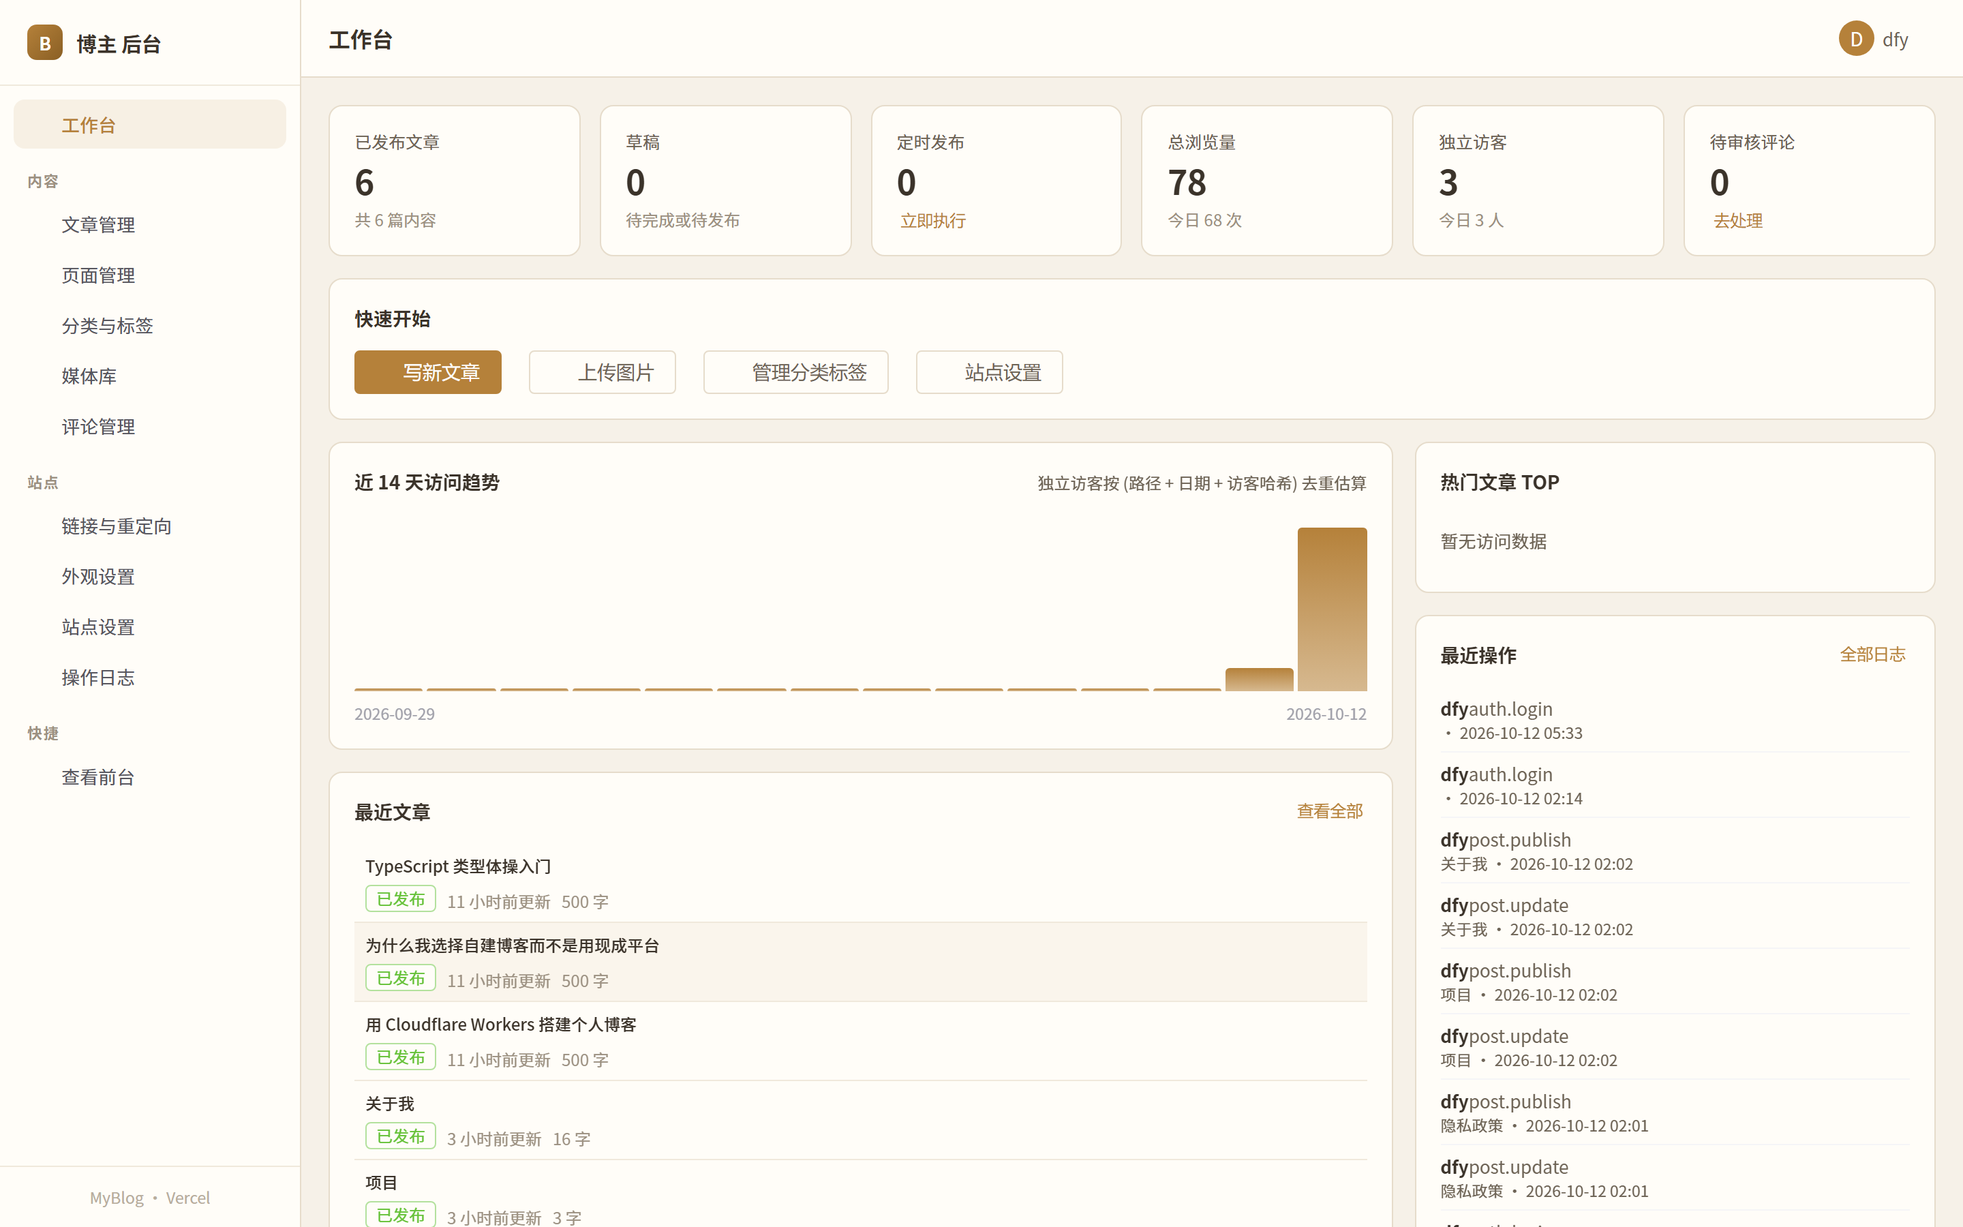
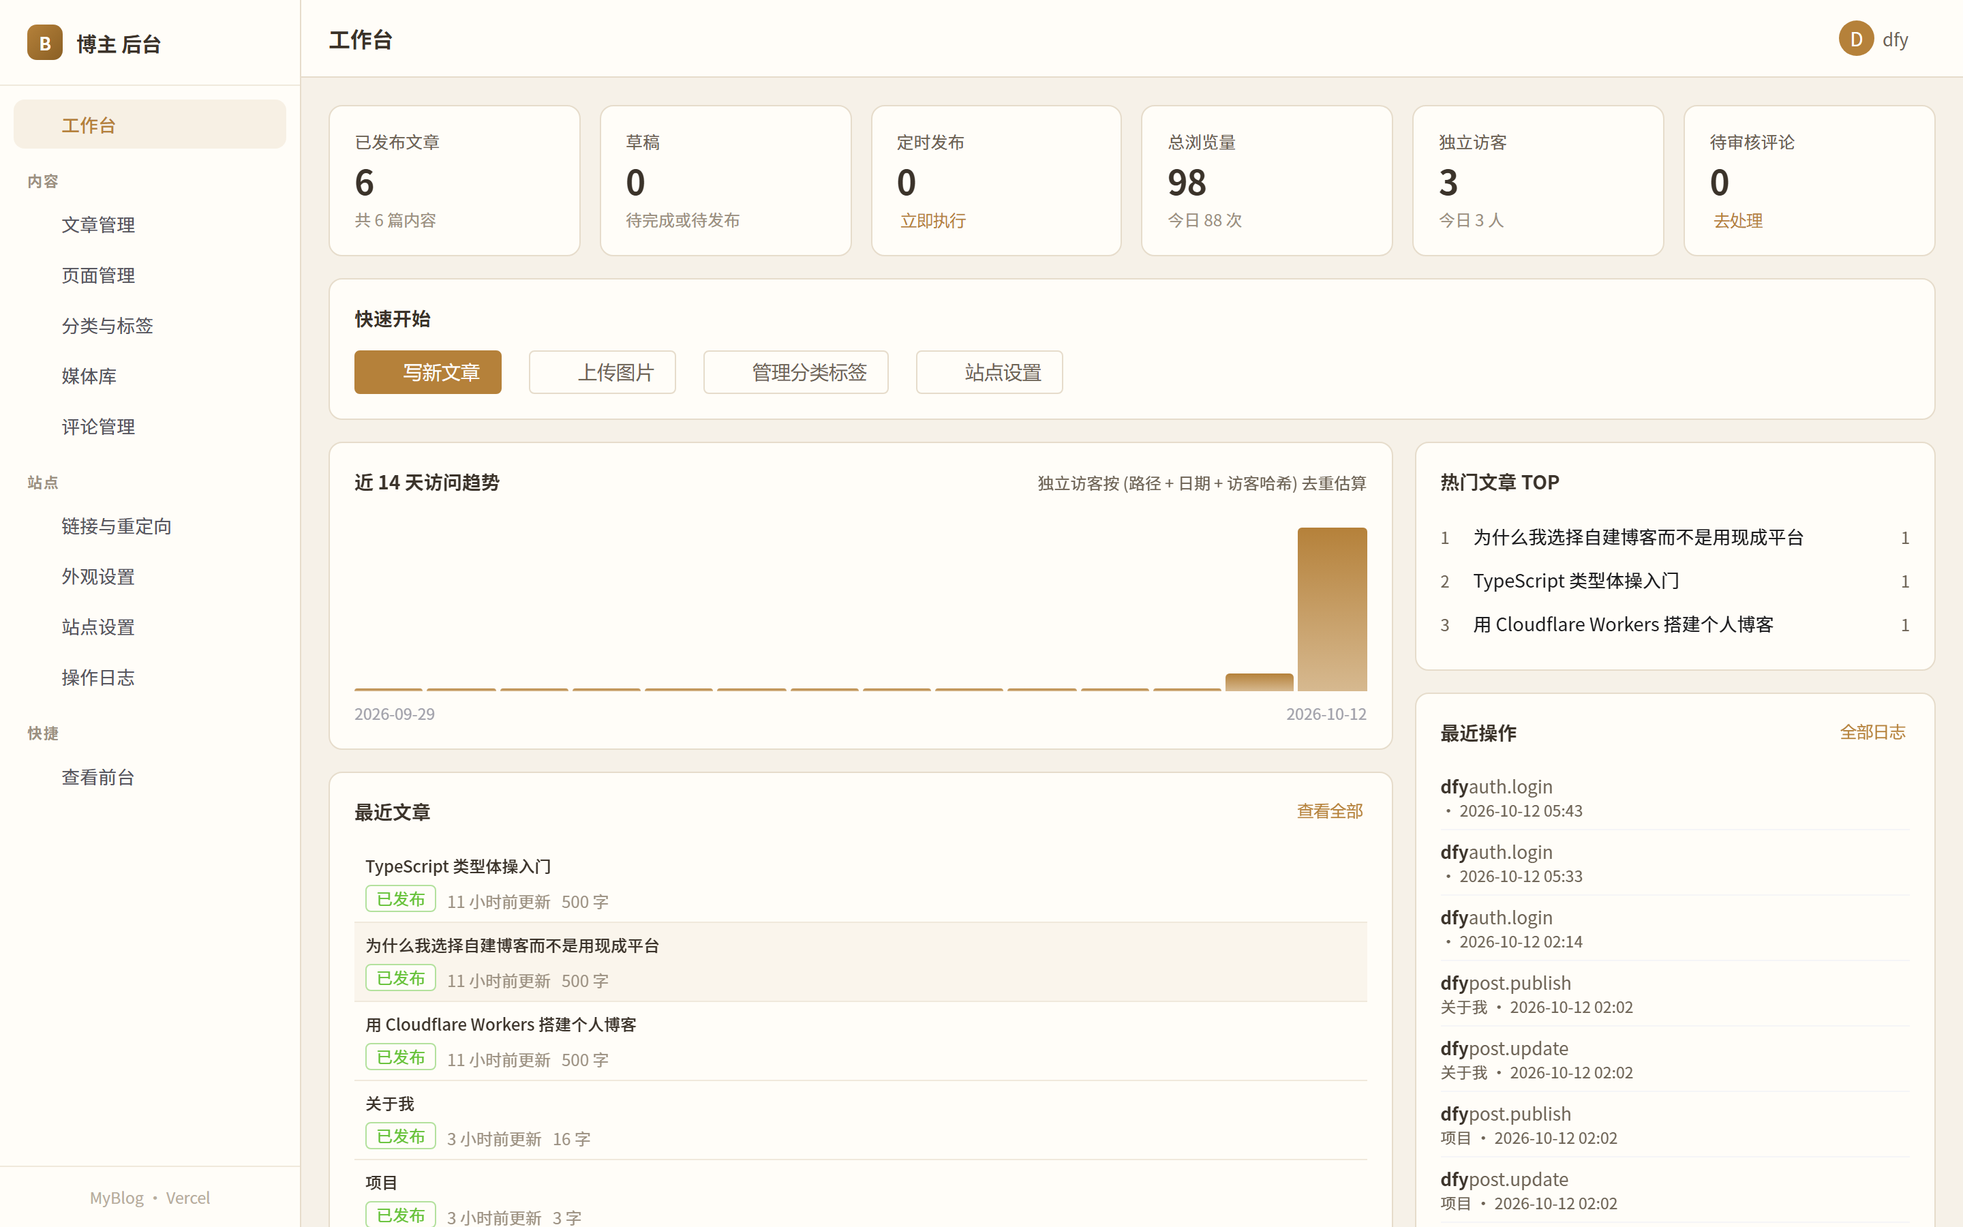
docs(readme): 更新为线上真实截图，补充一键部署与手动部署完整步骤

diff --git a/README.md b/README.md
@@ -4,31 +4,31 @@
 
 无需购买服务器，不依赖 Nginx / PHP / MySQL，推送 GitHub 即自动部署。
 
-> 部署到 Vercel 后，访问 `https://<你的项目名>.vercel.app` 即可。
+[![Deploy with Vercel](https://vercel.com/button)](https://vercel.com/new/clone?repository-url=https://github.com/yuanshang000/ysblog)
 
 ---
 
 ## 页面预览
 
-以下截图均截自真实运行实例（非设计稿），前台来自本地 `wrangler dev` + 演示数据。
+以下截图全部截自**线上真实运行实例**（`https://ysblog-pi.vercel.app`），非设计稿、非本地模拟。
 
-### 前台首页
+### 前台首页（日间主题）
 
-个人简介、精选文章、最新文章、分类导航一屏呈现。导航点击为页面内路由跳转，无整页刷新。
+个人简介、精选文章、最新文章一屏呈现。导航为页面内路由跳转，无整页刷新。
 
 ![首页](docs/images/home.png)
 
 ### 文章详情
 
-服务端渲染的完整正文，支持表格、代码高亮、引用、目录锚点，右侧目录随滚动高亮。
+服务端渲染的完整正文，支持表格、代码高亮、引用、右侧目录随滚动高亮。
 
 ![文章详情](docs/images/post-detail.png)
 
-### 深色模式
+### 夜间主题（淡灰）
 
-独立配色而非简单反色，`<head>` 内联脚本确定主题，切换时无闪烁。
+独立配色而非简单反色，`<head>` 内联脚本确定主题，切换时无闪烁。日间为淡棕黄、夜间为淡灰，两套均为浅底深字，正文对比度均达 WCAG AAA 级。
 
-![深色模式](docs/images/post-detail-dark.png)
+![夜间主题](docs/images/post-detail-gray.png)
 
 ### 文章列表与归档
 
@@ -44,9 +44,11 @@
 | --- | --- |
 | ![分类](docs/images/categories.png) | ![标签](docs/images/tags.png) |
 
-### 友情链接
+### 关于、友链与搜索
 
-![友情链接](docs/images/links.png)
+| 关于我 | 友情链接 | 搜索 |
+| --- | --- | --- |
+| ![关于](docs/images/about.png) | ![友链](docs/images/links.png) | ![搜索](docs/images/search.png) |
 
 ### 移动端适配
 
@@ -54,17 +56,23 @@
 
 ![移动端](docs/images/home-mobile.png)
 
-### 管理后台
+### 管理后台登录
 
-| 工作台 | 文章管理 |
-| --- | --- |
-| ![工作台](docs/images/admin-dashboard.png) | ![文章管理](docs/images/admin-posts.png) |
+![后台登录](docs/images/admin-login.png)
 
-工作台展示访问趋势、热门文章与最近操作日志。
+### 工作台
+
+访问趋势、热门文章与最近操作日志一览。
+
+![工作台](docs/images/admin-dashboard.png)
+
+### 文章管理
+
+![文章管理](docs/images/admin-posts.png)
 
 ### Markdown 编辑器
 
-三栏布局：左侧大纲、中间编辑、右侧属性（发布状态、URL别名、分类标签、SEO）。支持 1.5 秒防抖自动保存与实时预览。
+三栏布局：左侧大纲、中间编辑、右侧属性（发布状态、URL 别名、分类标签、SEO）。支持 1.5 秒防抖自动保存与实时预览。
 
 ![编辑器](docs/images/admin-editor.png)
 
@@ -86,17 +94,16 @@
 
 | 能力 | 说明 |
 | --- | --- |
-| 前台 SSR | 文章内容由 Worker 服务端渲染成 HTML，搜索引擎与禁用 JS 的场景都能完整阅读 |
-| 页面内路由 | 站内导航拦截后仅替换主体内容，同步标题与地址栏，支持前进后退；失败自动回退整页跳转，禁用 JS 时行为不变 |
+| 前台 SSR | 文章内容由服务端渲染成 HTML，搜索引擎与禁用 JS 的场景都能完整阅读 |
+| 页面内路由 | 站内导航拦截后仅替换主体内容，同步标题与地址栏，支持前进后退；失败自动回退整页跳转 |
+| 双主题 | 日间淡棕黄、夜间淡灰，另可跟随系统；`<head>` 内联脚本决定主题，切换无闪烁 |
 | 极简写作 | 三栏编辑器、1.5 秒防抖自动保存、本地草稿兜底、多标签页冲突检测 |
 | Markdown | 安全渲染（原始 HTML 一律转义），支持代码高亮、表格、数学公式、目录锚点、图片灯箱 |
-| 深色模式 | 浅色 / 深色 / 跟随系统，无闪烁；深色为独立配色而非反色 |
-| 图片管理 | 上传至 R2，自动嗅探真实类型、提取宽高、秒传去重、引用检查后删除 |
+| 图片管理 | 上传至 Blob，自动嗅探真实类型、提取宽高、去重、引用检查后删除 |
 | SEO | 每篇独立 title/description/canonical/robots，自动生成 Sitemap、RSS、结构化数据 |
-| 定时发布 | Cron 每 10 分钟检查，到点自动发布并写入操作日志 |
+| 定时发布 | Vercel Cron 每日检查，到点自动发布并写入操作日志 |
 | 访问统计 | 只存 IP 加盐哈希；独立访客按（访客 + 日期）去重，机器人流量自动排除 |
 | 安全 | PBKDF2 密码哈希、会话仅存哈希、HttpOnly+SameSite Cookie、双提交 CSRF、参数化 SQL、上传白名单 |
-| 数据备份 | 一条命令导出 D1 + 同步 R2，恢复流程经过实际验证 |
 
 ---
 
@@ -117,64 +124,106 @@ API       Vercel Functions（Node.js 运行时）+ TypeScript
 
 ## 部署
 
-### 方式一：Vercel 控制台导入（推送即部署）
+### 方式一：一键部署（推荐）
 
-**第 1 步：导入仓库**
+点击顶部按钮，或访问：
+
+```
+https://vercel.com/new/clone?repository-url=https://github.com/yuanshang000/ysblog
+```
+
+导入后 Vercel 会自动识别并完成首次构建。**但数据库和存储需要你手动创建**，因为它们无法由平台自动分配——请继续往下走「方式二」的第 2、3 步完成配置，再重新部署一次。
+
+---
+
+### 方式二：控制台导入（完整步骤）
+
+#### 第 1 步：导入仓库
 
 登录 [vercel.com](https://vercel.com) → **Add New → Project** → **Import** 选择本仓库，Framework Preset 选 **Other**。
 
-**第 2 步：创建数据库与存储**
+项目设置保持默认即可，仓库已内置 `vercel.json`：
+
+| 配置项 | 值 | 说明 |
+| --- | --- | --- |
+| Build Command | `npm run build:vercel` | 构建前台 + 后台 + 预编译 Worker |
+| Output Directory | `apps/worker/public` | 静态产物目录 |
+| Install Command | `npm install` | npm workspaces |
+
+> **关于 Functions 入口**：Vercel 只识别**项目根目录**下的 `api/`，所以入口文件是 `api/index.ts`，它会加载构建阶段由 esbuild 产出的 `dist-server/_worker.mjs`。这一层是协议适配代码，业务逻辑本身与平台无关。
+
+#### 第 2 步：创建数据库与存储
 
 在项目页的 **Storage** 标签下：
 
-- **Create Database → Neon**：得到 Postgres 连接串
-- **Create Store → Blob**：得到 `BLOB_READ_WRITE_TOKEN`
+- **Create Database → Neon**：创建后 Vercel 会**自动注入** `POSTGRES_URL` 等环境变量，无需手动复制连接串
+- **Create Store → Blob**：创建后同样自动注入 `BLOB_READ_WRITE_TOKEN`
 
-**第 3 步：配置环境变量**
+> 若你的账号界面里没有 Neon 选项，也可以在 [Neon 控制台](https://console.neon.tech) 手动创建，然后回到 Vercel 用 **Integrations → Neon** 关联，同样会自动注入变量。
 
-在 **Settings → Environment Variables** 中添加：
+#### 第 3 步：配置环境变量
 
-| 变量 | 值 | 是否必填 |
+在 **Settings → Environment Variables** 中补充以下变量（数据库和 Blob 的变量已由第 2 步自动注入）：
+
+| 变量 | 是否必填 | 说明 |
 | --- | --- | --- |
-| `POSTGRES_URL` | 第 2 步的连接串 | 必填 |
-| `BLOB_READ_WRITE_TOKEN` | 第 2 步的令牌 | 必填 |
-| `SESSION_SECRET` | 随机值，见下 | 必填 |
-| `IP_HASH_SALT` | 随机值 | 必填 |
-| `SITE_URL` | `https://<项目名>.vercel.app` | 建议 |
-| `CRON_SECRET` | 随机值 | 建议 |
+| `SESSION_SECRET` | 必填 | 会话令牌哈希盐，泄露等同于可伪造会话 |
+| `IP_HASH_SALT` | 必填 | IP 哈希盐，保证统计数据不可逆推 |
+| `SITE_URL` | 建议 | `https://<项目名>.vercel.app`，影响 RSS、Sitemap 与 canonical |
+| `CRON_SECRET` | 建议 | 校验 Vercel Cron 请求，留空则仅允许 Cron 的 User-Agent |
+| `ADMIN_SETUP_TOKEN` | 首次需要 | 一次性初始化令牌，创建管理员后请删除 |
+| `MAX_UPLOAD_MB` | 可选 | 单文件上传上限，默认 10 |
+| `ALLOW_SVG` | 可选 | 默认 `false`（SVG 默认禁用） |
 
-生成随机值：`node -e "console.log(require('crypto').randomBytes(32).toString('hex'))"`
+生成随机值：
 
-**第 4 步：初始化数据库表结构**
+```bash
+node -e "console.log(require('crypto').randomBytes(32).toString('hex'))"
+```
 
-Vercel 构建不会自动跑迁移，需在项目页的 **Terminal** 中执行一次：
+完整变量清单与逐项说明见 [`.env.example`](.env.example)。
+
+#### 第 4 步：初始化数据库表结构
+
+**Vercel 构建不会自动跑迁移**，需在项目页的 **Terminal** 中执行一次：
 
 ```bash
 npm run db:migrate
-npm run db:seed   # 可选：写入演示数据
+npm run db:seed     # 可选：写入演示数据
 ```
 
-**第 5 步：创建管理员**
+迁移会创建 18 张业务表 + 34 个索引，脚本可重复执行（已迁移的不会重复建表）。
+
+#### 第 5 步：创建管理员
 
 访问 `https://<你的域名>/admin`，未初始化会跳转至 `/admin/setup`。
-需先配置 `ADMIN_SETUP_TOKEN` 环境变量用于一次性初始化，完成后删除该变量。
+
+需先配置 `ADMIN_SETUP_TOKEN` 环境变量用于一次性初始化，**完成后立刻删除该变量**，防止他人创建账号。
 
 之后每次 `git push` 即自动部署。
 
 ---
 
-### 方式二：本地 CLI 部署
+### 方式三：本地 CLI 部署
+
+适合习惯在本地管理环境变量的场景。
 
 ```bash
 npm install -g vercel
 
 vercel login
-vercel link
-vercel env pull .env.local   # 拉取生产环境变量
+vercel link --yes --project=<项目名> --scope=<你的团队>
 
-npm run db:migrate           # 初始化表结构
-npm run deploy               # 构建并部署
+# 拉取生产环境变量到本地（迁移脚本需要）
+vercel env pull .env.local
+
+npm run db:migrate        # 初始化表结构
+npm run db:seed           # 可选：演示数据
+
+npm run deploy            # 构建并部署到生产
 ```
+
+> **注意**：Hobby 套餐的 Cron 每天最多只能执行一次，因此 `vercel.json` 里的定时发布任务配置为每天 03:00 UTC。需要更频繁的调度请升级到 Pro 套餐并调整 `crons[].schedule`。
 
 ---
 
@@ -190,7 +239,7 @@ npm run db:seed              # 可选：演示数据
 npm run dev                  # http://localhost:3000
 ```
 
-演示数据登录信息：`admin` / `Demo123456`，**仅用于本地预览**。
+`npm run dev` 会同时启动三端：Vercel 本地运行时（Functions）、前台构建监听、后台 Vite 开发服务器。
 
 若想用本机 Postgres，可用 Docker 快速起一个：
 
@@ -199,7 +248,12 @@ docker run -d --name myblog-pg -p 5432:5432 \
   -e POSTGRES_PASSWORD=postgres -e POSTGRES_DB=myblog postgres:16
 ```
 
-对应 `.env.local`：`POSTGRES_URL="postgres://postgres:postgres@localhost:5432/myblog"`、`POSTGRES_SSL="false"`
+对应 `.env.local`：
+
+```ini
+POSTGRES_URL="postgres://postgres:postgres@localhost:5432/myblog"
+POSTGRES_SSL="false"
+```
 
 ---
 
@@ -210,6 +264,7 @@ docker run -d --name myblog-pg -p 5432:5432 \
 | 修改管理员密码 | 初始化密码强度较弱，务必在「站点设置 → 安全」中修改 |
 | 删除 `ADMIN_SETUP_TOKEN` | 在环境变量中移除，防止他人创建账号 |
 | 更新 `SITE_URL` | 绑定自定义域名后同步修改，影响 RSS 与站点地图 |
+| 关闭 Deployment Protection | 若 Vercel 提示开启了 Vercel Authentication，需在项目设置中关闭，否则访客会看到登录拦截页 |
 
 更完整的说明见 [`docs/deployment.md`](docs/deployment.md)。
 
@@ -218,13 +273,16 @@ docker run -d --name myblog-pg -p 5432:5432 \
 ## 常用命令
 
 ```bash
-npm run dev                 # 本地开发（Vercel 本地运行时）
+npm run dev                 # 本地开发（三端并行）
 npm run build               # 清理并构建前台 + 后台
+npm run build:vercel        # 完整构建（含 Worker 预编译，供 Vercel 使用）
 npm run typecheck           # 前后端类型检查
-npm test                    # 单元测试（109 个用例）
+npm test                    # 单元测试（122 个用例）
 npm run db:migrate          # 初始化 / 更新数据库表结构
 npm run db:seed             # 写入演示数据
+npm run db:setup-admin      # 命令行创建 / 重置管理员
 npm run db:backup           # 备份数据库 + 图片
+npm run import:md           # 批量导入 Markdown 文章
 npm run deploy              # 构建并部署到 Vercel
 ```
 
@@ -234,37 +292,38 @@ npm run deploy              # 构建并部署到 Vercel
 
 ```
 my-blog/
+├── api/
+│   └── index.ts             Vercel Functions 入口（协议适配层）
 ├── apps/
-│   ├── web/                    前台交互岛（渐进增强）
+│   ├── web/                  前台交互岛（渐进增强）
 │   │   └── src/islands/main.ts 主题/目录/进度/灯箱/搜索/评论/路由
-│   ├── admin/                  后台管理 SPA
-│   │   └── src/views/           12 个页面（工作台/编辑器/媒体库…）
+│   ├── admin/                后台管理 SPA
+│   │   └── src/views/         12 个页面（工作台/编辑器/媒体库…）
 │   └── worker/
-│       ├── api/index.ts         Vercel Functions 入口（协议适配层）
 │       └── src/
-│           ├── index.ts         应用主逻辑（平台无关的 Web 标准代码）
-│           ├── routes/          公开 API / 管理 API / 评论 / RSS
-│           ├── repositories/    全部 SQL（参数化查询）
-│           ├── services/        设置读写 / SSR 页面渲染
+│           ├── index.ts       应用主逻辑（平台无关的 Web 标准代码）
+│           ├── routes/        公开 API / 管理 API / 评论 / RSS
+│           ├── repositories/  全部 SQL（参数化查询）
+│           ├── services/      设置读写 / SSR 页面渲染
 │           ├── lib/
 │           │   ├── db-adapter.ts  Postgres 适配层（含 SQLite 方言转换）
-│           │   ├── blob-store.ts Vercel Blob 封装
-│           │   ├── auth.ts       会话与 CSRF
-│           │   ├── crypto.ts     PBKDF2 密码哈希
-│           │   └── context.ts    请求上下文
+│           │   ├── blob-store.ts   Vercel Blob 封装
+│           │   ├── auth.ts         会话与 CSRF
+│           │   ├── crypto.ts       PBKDF2 密码哈希
+│           │   └── context.ts      请求上下文
 │           └── jobs/            定时任务
-├── packages/shared/            三端共用
-│   ├── types.ts                数据契约
-│   ├── markdown.ts             安全 Markdown 渲染器
-│   ├── html-shell.ts           前台设计系统 + HTML 外壳
-│   └── settings-schema.ts      设置项单一事实来源
-├── migrations/postgres/        数据库迁移（PostgreSQL）
-│   └── 0001_init.sql           建表（18 张表 / 34 个索引）
-├── tests/                      单元测试
-├── docs/                       部署 / API / 备份文档
-│   └── images/                 README 截图
-├── scripts/                    迁移、种子与备份脚本
-└── vercel.json                 Vercel 部署配置
+├── packages/shared/          三端共用
+│   ├── types.ts              数据契约
+│   ├── markdown.ts           安全 Markdown 渲染器
+│   ├── html-shell.ts         前台设计系统 + HTML 外壳
+│   └── settings-schema.ts    设置项单一事实来源
+├── migrations/postgres/      数据库迁移（PostgreSQL）
+│   └── 0001_init.sql         建表（18 张表 / 34 个索引）
+├── scripts/                  构建、迁移、种子与备份脚本
+├── tests/                    单元测试
+├── docs/                     部署 / API / 备份文档
+│   └── images/               README 截图
+└── vercel.json               Vercel 部署配置
 ```
 
 ---
@@ -278,7 +337,6 @@ my-blog/
 | [docs/api.md](docs/api.md) | 全部 REST API 接口说明 |
 | [docs/backup-restore.md](docs/backup-restore.md) | 数据备份与恢复 |
 | [docs/architecture.md](docs/architecture.md) | 架构决策与安全设计 |
-| [docs/todo.md](docs/todo.md) | 未完成事项清单 |
 
 ---
 
@@ -290,23 +348,25 @@ my-blog/
 - 版本冲突正确返回 409，CSRF 缺失正确返回 403
 - 22 个 XSS 攻击向量全部被拦截（含 `javascript:` 绕过、属性逃逸、编码混淆）
 - 危险文件（`.sh`）被拒绝，SVG 默认禁用
-- 全部前台页面 SSR 输出（含 404、归档、分类、标签、搜索、关于、友链）
-- 后台 SPA 全部路由可访问
-- 109 个单元测试通过
-- 前后端类型检查零错误
-- SQLite → Postgres 方言转换有11 项专项测试覆盖（占位符编号、日期函数、`INSERT OR IGNORE`、字符串内问号不误替换等）
+- 全部前台页面 SSR 输出正常（含 404、归档、分类、标签、搜索、关于、友链）
+- 后台 SPA 全部路由可访问，全程无 5xx
+- 未登录打开后台不再产生 401 报错（登录态守卫 + 会话 Cookie 启发式判断）
+- 122 个单元测试通过，前后端类型检查零错误
+- SQLite → Postgres 方言转换有 15 项专项测试覆盖
+- 日间 / 夜间两套主题实测对比度分别为 11.03:1 与 11.01:1，均达 WCAG AAA
 
 安全与页面内路由的专项验证：
 
 - CSRF 双提交实测：登录后 `mb_csrf` 不带 `HttpOnly`（前端可读），`mb_session` 仍带；
   缺失令牌返回 403，携带令牌改密码返回 200
-- 页面内路由实测：线上导航 8 个栏目，`target="_blank"` 数量为 0，全部标记为路由链接
+- 页面内路由实测：线上导航全部标记为路由链接，无整页刷新
 
 ---
 
 ## 浏览器支持
 
 现代浏览器（Chrome / Edge / Safari / Firefox 最近两个大版本）。
+
 使用了 CSS `color-mix()`、`aspect-ratio`、AbortController 等现代特性。
 
 ---
